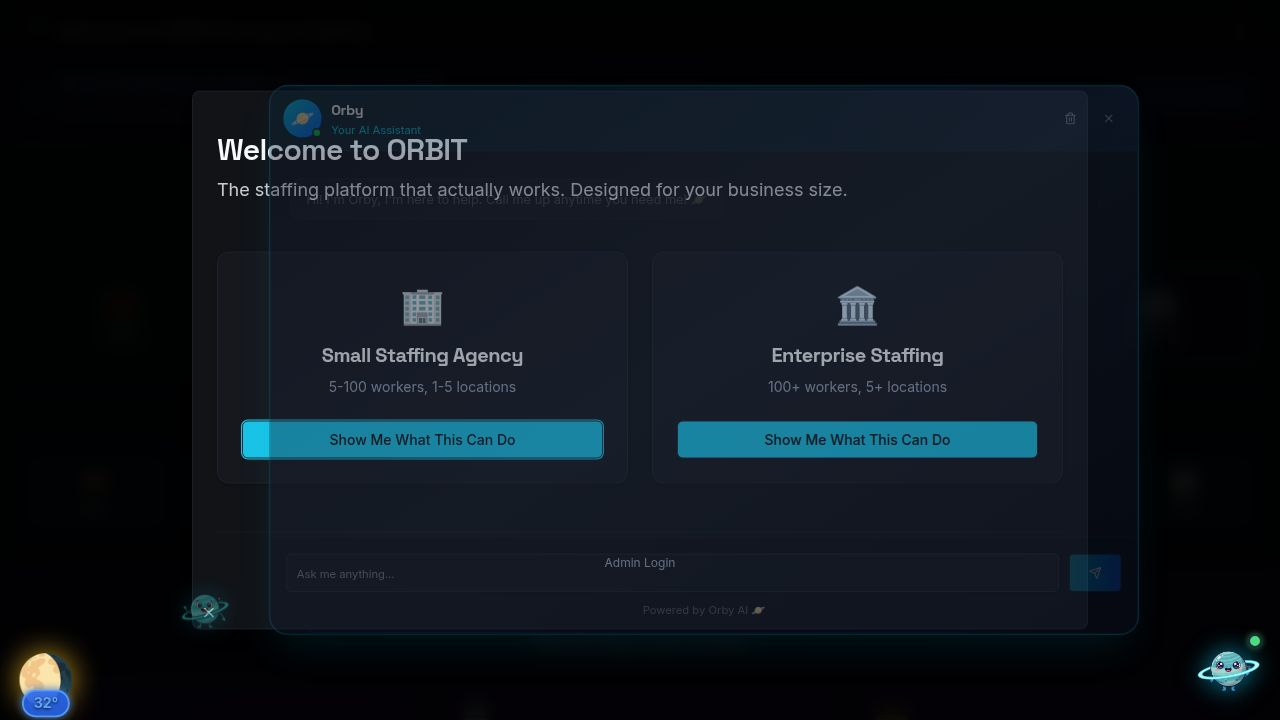
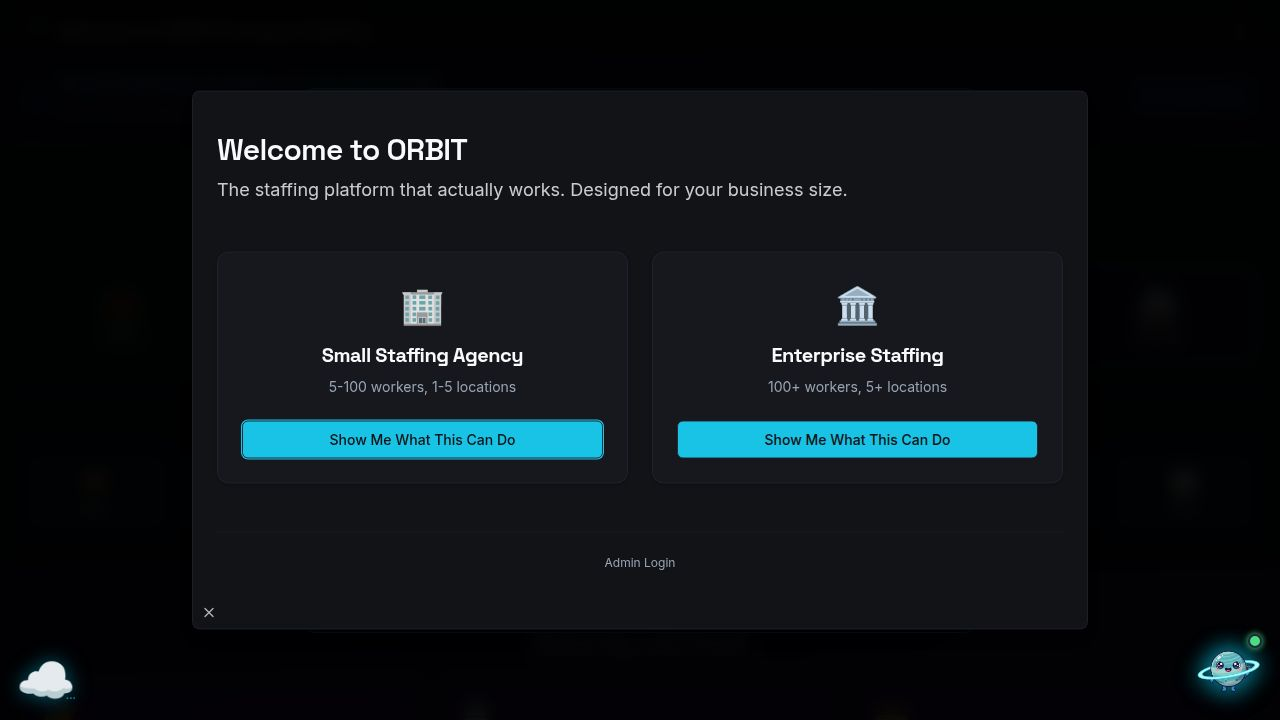
Use weather emojis and reposition temperature display
Reverts weather icons to emojis and adjusts temperature positioning to the right of the icon.

Replit-Commit-Author: Agent
Replit-Commit-Session-Id: df6a5f3a-5cc7-457d-a71c-08b3217d563c
Replit-Commit-Checkpoint-Type: full_checkpoint
Replit-Commit-Event-Id: 9ca23675-1656-4a34-88d3-6b8c7c4a1723
Replit-Commit-Screenshot-Url: https://storage.googleapis.com/screenshot-production-us-central1/606bb700-1745-49b9-8ff5-b83937d394a3/df6a5f3a-5cc7-457d-a71c-08b3217d563c/FDsAGFI

diff --git a/client/src/components/FloatingWeatherButton.tsx b/client/src/components/FloatingWeatherButton.tsx
@@ -488,35 +488,16 @@ export function FloatingWeatherButton({ onOpenRadar }: FloatingWeatherButtonProp
             animate={{ y: [0, -4, 0] }}
             transition={{ duration: 6, repeat: Infinity, ease: "easeInOut" }}
           >
-            {iconType === 'night' || iconType === 'night-cloudy' ? (
-              <span
-                style={{ 
-                  fontSize: '48px',
-                  lineHeight: '1',
-                  display: 'block',
-                  filter: `drop-shadow(0 0 15px ${glow.color}) drop-shadow(0 2px 4px rgba(0,0,0,0.5))`,
-                }}
-              >
-                {getMoonPhase()}
-              </span>
-            ) : (
-              <img 
-                src={`/weather-icons/${iconType === 'partly-cloudy' ? 'partly-cloudy' : iconType === 'clear' ? 'sunny' : iconType}.png`}
-                alt={iconType}
-                style={{
-                  width: '52px',
-                  height: '52px',
-                  objectFit: 'contain',
-                  filter: `drop-shadow(0 0 15px ${glow.color}) drop-shadow(0 2px 4px rgba(0,0,0,0.5))`,
-                }}
-                onError={(e) => {
-                  // Fallback to emoji if image fails
-                  const target = e.target as HTMLImageElement;
-                  target.style.display = 'none';
-                  target.insertAdjacentHTML('afterend', `<span style="font-size: 48px; line-height: 1; display: block; filter: drop-shadow(0 0 15px ${glow.color}) drop-shadow(0 2px 4px rgba(0,0,0,0.5));">${emoji}</span>`);
-                }}
-              />
-            )}
+            <span
+              style={{ 
+                fontSize: '48px',
+                lineHeight: '1',
+                display: 'block',
+                filter: `drop-shadow(0 0 15px ${glow.color}) drop-shadow(0 2px 4px rgba(0,0,0,0.5))`,
+              }}
+            >
+              {iconType === 'night' || iconType === 'night-cloudy' ? getMoonPhase() : emoji}
+            </span>
             {(() => {
               const tempColors = getTemperatureColor(weatherData.temperature);
               return (
